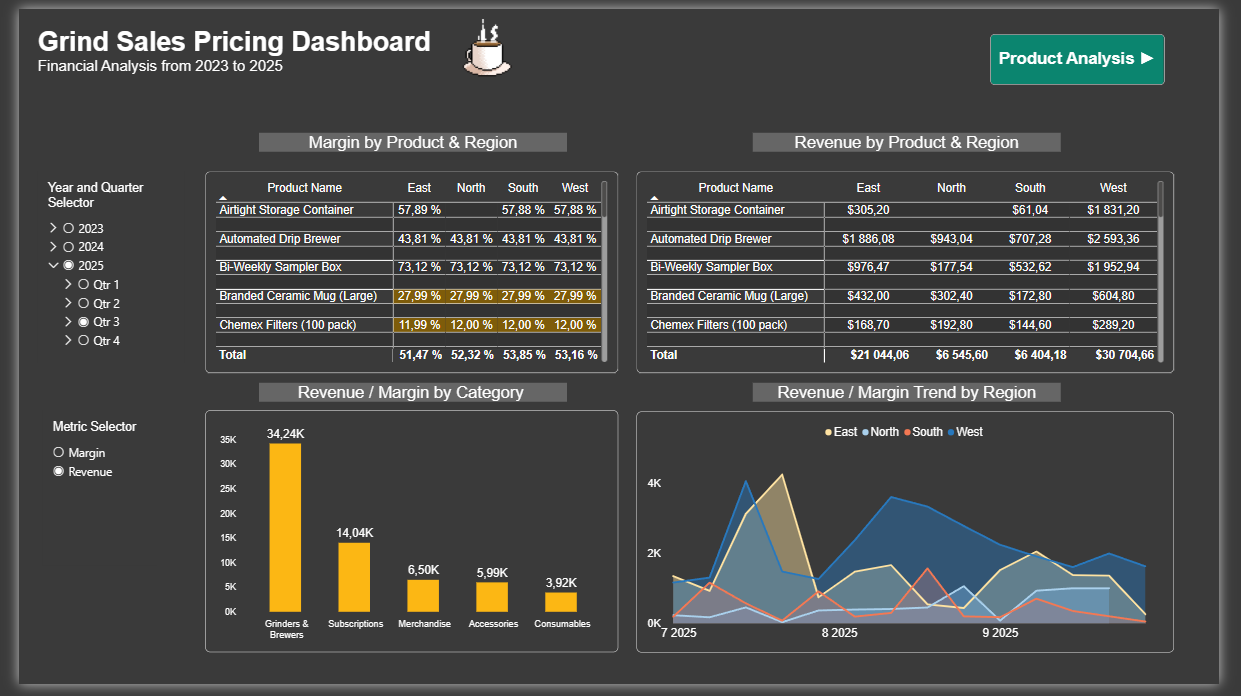
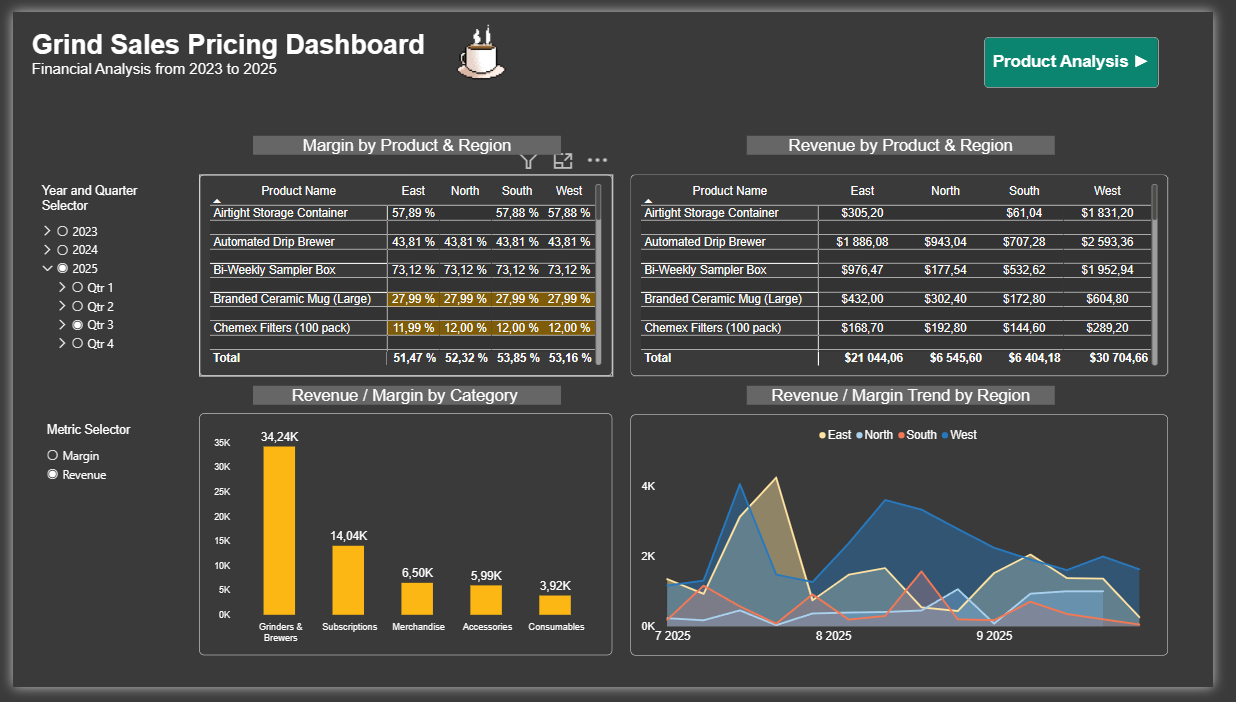
Update dashboard screenshots with renamed navigation button
Page 2's back button now reads "Revenue & Margin Dashboard"; the README
image description for page 1 is updated to match.

diff --git a/README.md b/README.md
@@ -101,7 +101,7 @@ pricing recommendations were built.
 
 The Power BI report, filtered to Q3 2025:
 
-![Pricing dashboard: margin and revenue by product, region and category](images/Page%201%20Financial%20Analysis%20dashboard.png)
+![Revenue & Margin dashboard: margin and revenue by product, region and category](images/Page%201%20Financial%20Analysis%20dashboard.png)
 
 ![Product analysis: revenue by product, and pricing and margin analysis with recommended prices](images/Page%202%20Financial%20Analysis%20dashboard.png)
 
